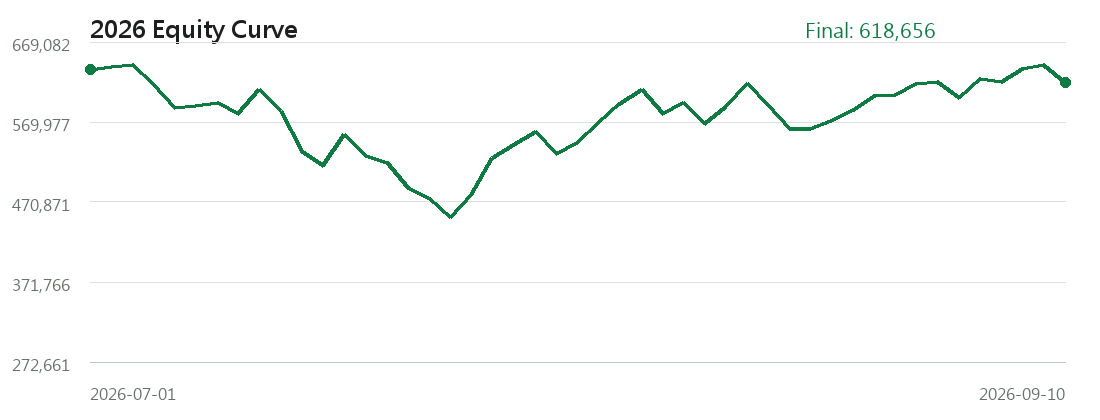
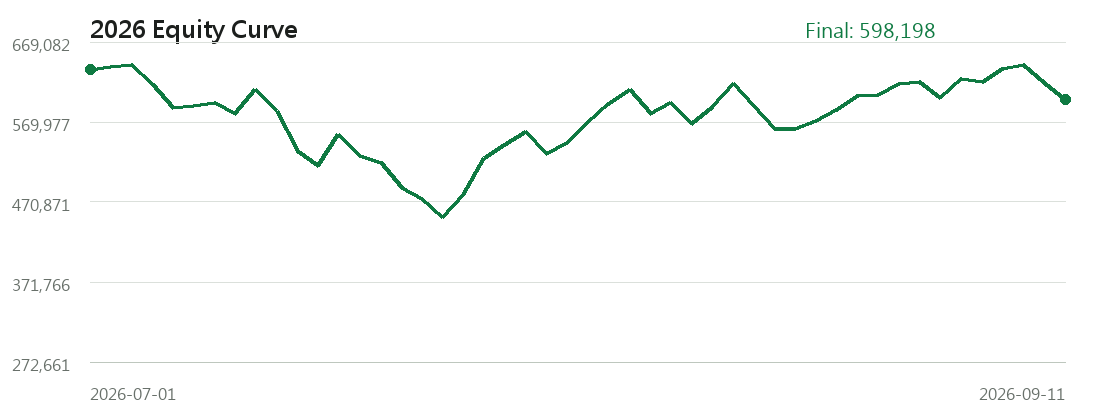
Update dashboard data

diff --git a/data.js b/data.js
@@ -1,5 +1,5 @@
 window.PUBLIC_FOLLOW_DATA = {
-  "generated_at": "2026-09-10T18:34:01.543097+08:00",
+  "generated_at": "2026-09-11T18:33:59.189389+08:00",
   "public_note": "Static follow dashboard only. Backend code, database, cache, and parameter search files are local-only.",
   "assumptions": {
     "initial_capital": 300000.0,
@@ -8,20 +8,20 @@ window.PUBLIC_FOLLOW_DATA = {
     "position_sizing": "Capital is split across up to 5 positions with integer-share sizing."
   },
   "data_status": {
-    "signal_date": "2026-09-10",
-    "latest_chip_date": "2026-09-10",
-    "latest_price_date": "2026-09-10",
-    "candidate_count": 2,
+    "signal_date": "2026-09-11",
+    "latest_chip_date": "2026-09-11",
+    "latest_price_date": "2026-09-11",
+    "candidate_count": 1,
     "warning": null
   },
   "metrics": {
     "initial_capital": 300000.0,
-    "final_value": 618656.2984176637,
+    "final_value": 598198.2984176637,
     "cash": 16996.79841766361,
-    "total_return_pct": 106.21876613922123,
-    "annualized_return_pct": 204.85402190431526,
+    "total_return_pct": 99.3994328058879,
+    "annualized_return_pct": 188.177872954096,
     "start_date": "2026-01-16",
-    "end_date": "2026-09-10",
+    "end_date": "2026-09-11",
     "closed_trade_count": 53,
     "entry_count": 54,
     "open_position_count": 5,
@@ -312,6 +312,12 @@ window.PUBLIC_FOLLOW_DATA = {
       "equity": 618656.2984176637,
       "cash": 16996.79841766361,
       "position_count": 5
+    },
+    {
+      "date": "2026-09-11",
+      "equity": 598198.2984176637,
+      "cash": 16996.79841766361,
+      "position_count": 5
     }
   ],
   "holdings": [
@@ -321,11 +327,11 @@ window.PUBLIC_FOLLOW_DATA = {
       "quantity": 198,
       "entry_date": "2026-09-07",
       "entry_price": 630.0,
-      "current_price_date": "2026-09-10",
-      "current_price": 571.0,
-      "market_value": 113058.0,
-      "unrealized_return_pct": -9.365079365079366,
-      "holding_days": 3,
+      "current_price_date": "2026-09-11",
+      "current_price": 531.0,
+      "market_value": 105138.0,
+      "unrealized_return_pct": -15.714285714285714,
+      "holding_days": 4,
       "concept_tag_names": [
         "光通訊模組",
         "矽光子/CPO",
@@ -343,11 +349,11 @@ window.PUBLIC_FOLLOW_DATA = {
       "quantity": 497,
       "entry_date": "2026-09-08",
       "entry_price": 249.0,
-      "current_price_date": "2026-09-10",
-      "current_price": 229.5,
-      "market_value": 114061.5,
-      "unrealized_return_pct": -7.831325301204817,
-      "holding_days": 2,
+      "current_price_date": "2026-09-11",
+      "current_price": 225.5,
+      "market_value": 112073.5,
+      "unrealized_return_pct": -9.437751004016059,
+      "holding_days": 3,
       "concept_tag_names": [
         "再生晶圓/晶圓服務",
         "證券券商",
@@ -366,11 +372,11 @@ window.PUBLIC_FOLLOW_DATA = {
       "quantity": 48,
       "entry_date": "2026-09-08",
       "entry_price": 2640.0,
-      "current_price_date": "2026-09-10",
-      "current_price": 2730.0,
-      "market_value": 131040.0,
-      "unrealized_return_pct": 3.409090909090917,
-      "holding_days": 2,
+      "current_price_date": "2026-09-11",
+      "current_price": 2580.0,
+      "market_value": 123840.0,
+      "unrealized_return_pct": -2.2727272727272707,
+      "holding_days": 3,
       "concept_tag_names": [
         "證券券商",
         "投資控股",
@@ -386,11 +392,11 @@ window.PUBLIC_FOLLOW_DATA = {
       "quantity": 115,
       "entry_date": "2026-09-10",
       "entry_price": 1120.0,
-      "current_price_date": "2026-09-10",
-      "current_price": 1070.0,
-      "market_value": 123050.0,
-      "unrealized_return_pct": -4.46428571428571,
-      "holding_days": 0,
+      "current_price_date": "2026-09-11",
+      "current_price": 1060.0,
+      "market_value": 121900.0,
+      "unrealized_return_pct": -5.35714285714286,
+      "holding_days": 1,
       "concept_tag_names": [
         "證券券商",
         "太陽能",
@@ -404,11 +410,11 @@ window.PUBLIC_FOLLOW_DATA = {
       "quantity": 55,
       "entry_date": "2026-09-10",
       "entry_price": 2260.0,
-      "current_price_date": "2026-09-10",
-      "current_price": 2190.0,
-      "market_value": 120450.0,
-      "unrealized_return_pct": -3.0973451327433676,
-      "holding_days": 0,
+      "current_price_date": "2026-09-11",
+      "current_price": 2150.0,
+      "market_value": 118250.0,
+      "unrealized_return_pct": -4.867256637168138,
+      "holding_days": 1,
       "concept_tag_names": [
         "證券券商",
         "AI伺服器",
@@ -434,48 +440,22 @@ window.PUBLIC_FOLLOW_DATA = {
   "today_candidates": [
     {
       "rank": 1,
-      "signal_date": "2026-09-10",
-      "stock_id": "3363",
-      "company_name": "上詮",
+      "signal_date": "2026-09-11",
+      "stock_id": "3374",
+      "company_name": "精材",
       "action": "WATCH_WEAKER_THAN_CURRENT_HOLDING",
-      "reference_price": 714.0,
-      "target_amount": 123731.25968353273,
-      "suggested_quantity": 173,
-      "buy_amount": 123522.0,
-      "concept_tag_names": [
-        "光通訊模組",
-        "矽光子/CPO",
-        "光纖傳輸/光通訊",
-        "證券券商",
-        "MLCC/被動元件",
-        "保護元件/電感",
-        "光纖/光纜",
-        "投資控股",
-        "矽光子/光通訊",
-        "租賃金融",
-        "網安/網路設備",
-        "被動元件"
-      ],
-      "action_text": "觀察"
-    },
-    {
-      "rank": 2,
-      "signal_date": "2026-09-10",
-      "stock_id": "6147",
-      "company_name": "頎邦",
-      "action": "WATCH_WEAKER_THAN_CURRENT_HOLDING",
-      "reference_price": 190.5,
-      "target_amount": 123731.25968353273,
-      "suggested_quantity": 649,
-      "buy_amount": 123634.5,
+      "reference_price": 463.5,
+      "target_amount": 119639.65968353274,
+      "suggested_quantity": 258,
+      "buy_amount": 119583.0,
       "concept_tag_names": [
         "封測",
         "證券券商",
-        "ASIC設計服務",
-        "半導體IP/設計服務",
         "投資控股",
+        "晶圓製程設備零組件",
         "檢測設備/服務",
-        "測試驗證服務"
+        "測試驗證服務",
+        "半導體IP/設計服務"
       ],
       "action_text": "觀察"
     }
